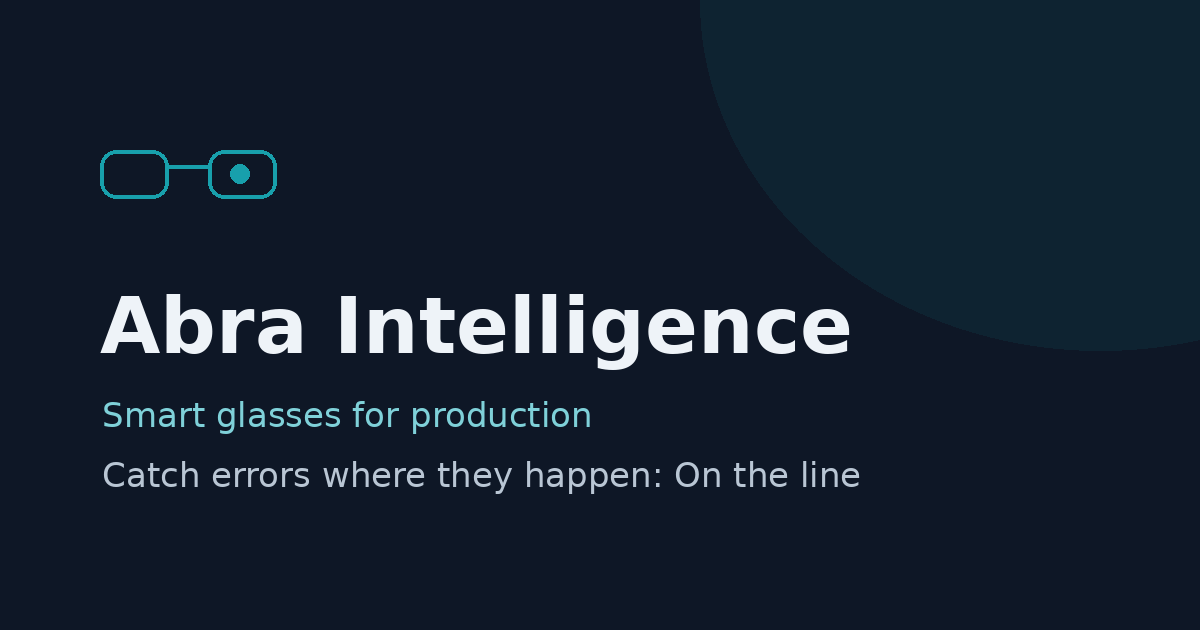
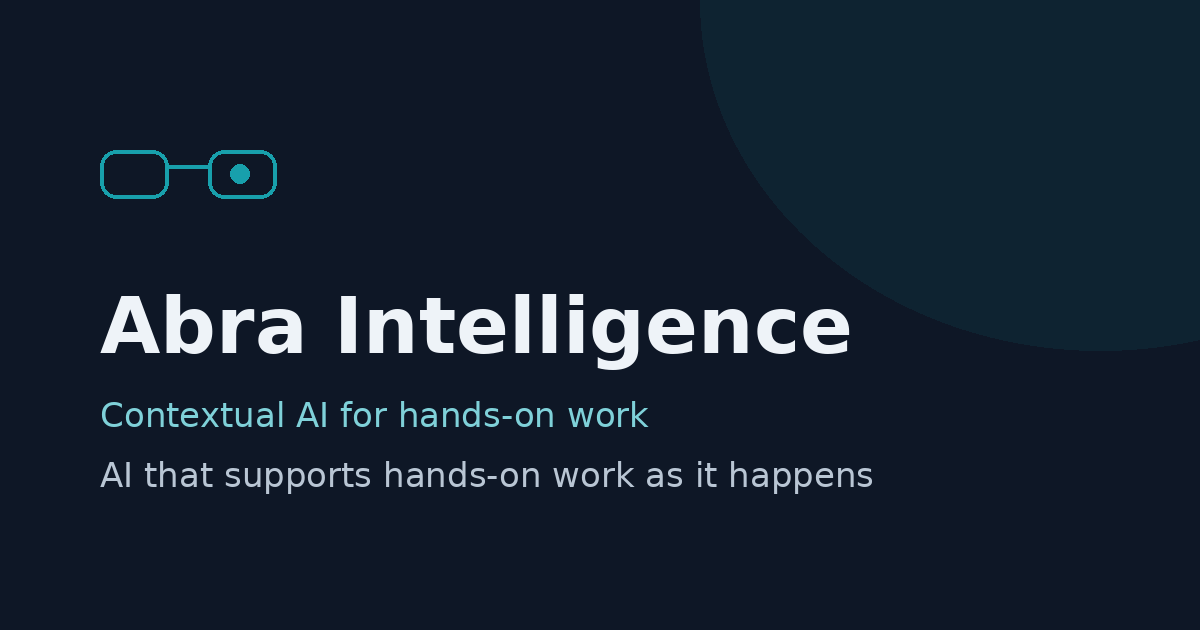
Reposition site to contextual AI for hands-on work
New hero, meta description, how it works (Context, See, Catch), trust line,
hands-free documentation use case, contact and CTA copy in EN, DE and PL.
New og-image, llms.txt and README.

Claude-Session: https://claude.ai/code/session_013hAULAnzPjqu46euoJVM2v

Changed region(s): [[0.0925, 0.7238, 0.74, 0.7841], [0.0617, 0.6333, 0.555, 0.6937]]

diff --git a/assets/css/style.css b/assets/css/style.css
@@ -32,7 +32,7 @@ body {
 }
 
 h1, h2, h3 { line-height: 1.2; margin: 0 0 0.5em; }
-h1 { font-size: clamp(2rem, 5vw, 3.2rem); font-weight: 800; letter-spacing: -0.02em; }
+h1 { font-size: clamp(2rem, 5vw, 3.2rem); font-weight: 800; letter-spacing: -0.02em; text-wrap: balance; }
 h2 { font-size: clamp(1.4rem, 3vw, 1.9rem); font-weight: 700; letter-spacing: -0.01em; }
 h3 { font-size: 1.05rem; font-weight: 600; }
 
@@ -208,6 +208,16 @@ h3 { font-size: 1.05rem; font-weight: 600; }
   font-size: 0.85rem;
   margin-bottom: 12px;
 }
+
+/* Trust line below the steps */
+.trust-line {
+  margin: 36px 0 0;
+  padding-top: 18px;
+  border-top: 1px solid var(--border);
+  color: var(--ink-soft);
+  font-size: 0.95rem;
+}
+.trust-line strong { color: var(--ink); }
 
 /* Use cases: thin rule instead of boxes */
 .usecase { border-top: 2px solid var(--accent); padding-top: 16px; }

diff --git a/_layouts/default.html b/_layouts/default.html
@@ -1,7 +1,7 @@
 <!DOCTYPE html>
 {%- assign t = site.data.i18n[page.lang] -%}
 {%- capture page_title %}{% if page.title %}{{ page.title }} · {{ site.title }}{% else %}{{ site.title }} · {{ t.hero.kicker }}{% endif %}{% endcapture -%}
-{%- capture page_description %}{{ t.hero.subtitle | strip_newlines | strip | truncate: 160 }}{% endcapture -%}
+{%- capture page_description %}{% if t.meta_description %}{{ t.meta_description | strip_newlines | strip }}{% else %}{{ t.hero.subtitle | strip_newlines | strip | truncate: 160 }}{% endif %}{% endcapture -%}
 <html lang="{{ page.lang }}">
 <head>
   <meta charset="utf-8">

diff --git a/_includes/landing.html b/_includes/landing.html
@@ -46,6 +46,9 @@
       </div>
       {%- endfor %}
     </div>
+    {%- if t.how.trust %}
+    <p class="trust-line"><strong>{{ t.how.trust.title }}:</strong> {{ t.how.trust.text }}</p>
+    {%- endif %}
   </div>
 </section>
 

diff --git a/README.md b/README.md
@@ -1,6 +1,6 @@
 # Abra Intelligence landing page
 
-Landing page for Abra Intelligence, a start-up that uses smart glasses in production environments, for example to spot errors in assembly processes or detect misplaced items. Built with Jekyll and hosted on GitHub Pages at https://felixkrones.github.io/ (custom domain to follow).
+Landing page for Abra Intelligence, a start-up building contextual AI for hands-on work: it sees what the worker sees (through smart glasses, a phone or a body camera), knows the procedure and catches mistakes as they happen. Built with Jekyll and hosted on GitHub Pages at https://felixkrones.github.io/ (custom domain to follow).
 
 See "Changing the company name or contact email" below for every place the name appears.
 
